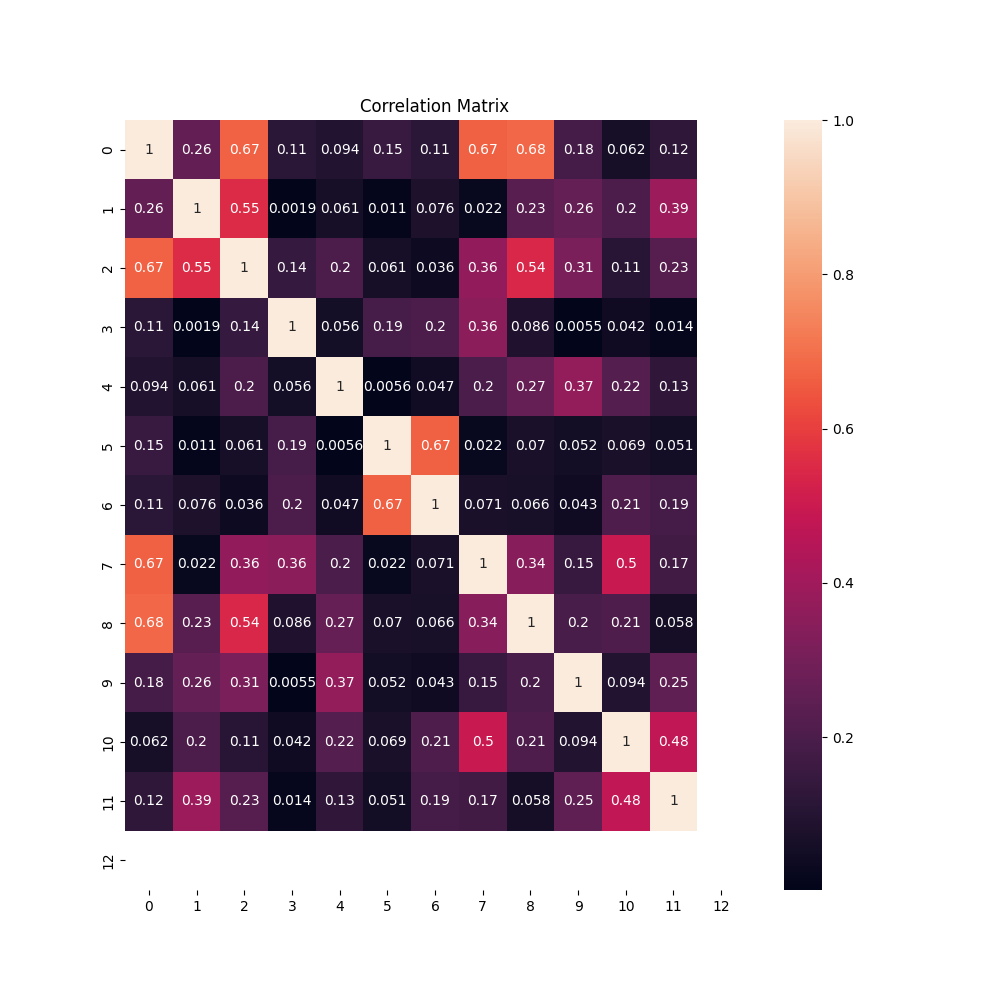
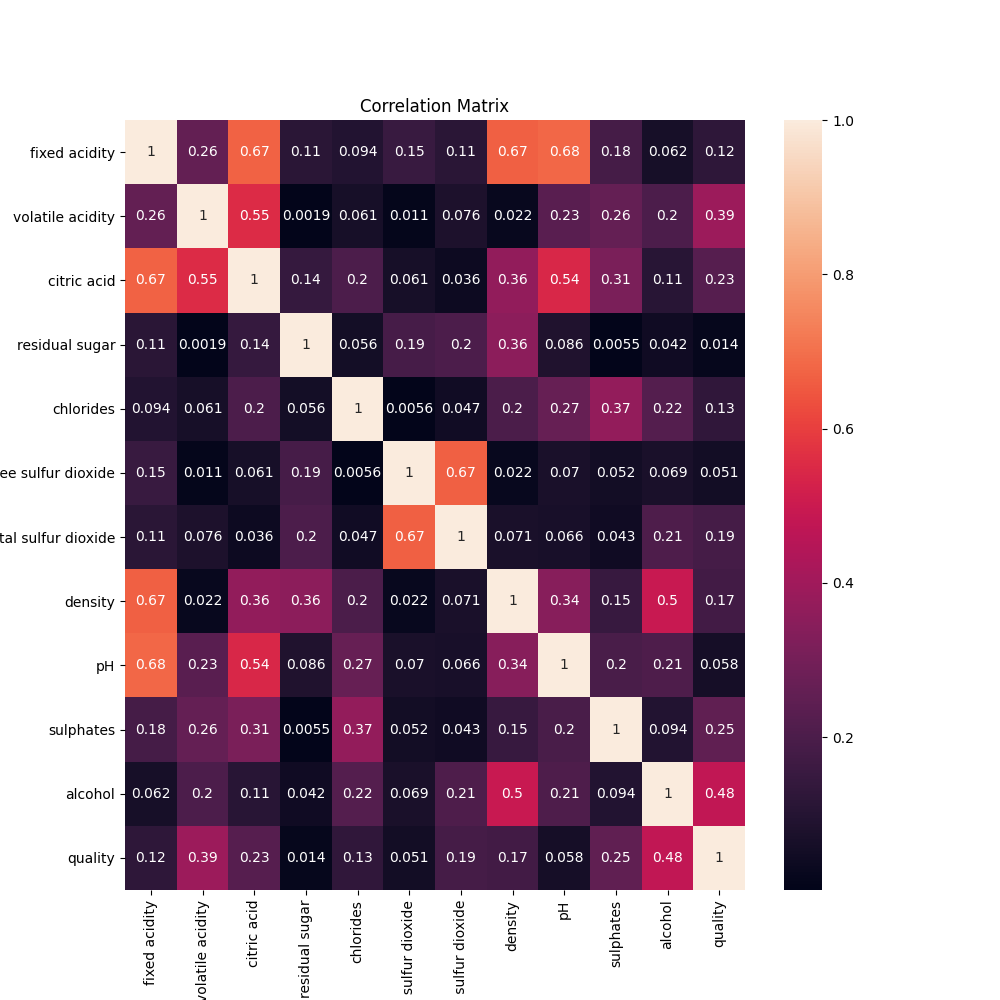
added metrics plt, violin plot

diff --git a/Debugging_04.py b/Debugging_04.py
@@ -1,13 +1,66 @@
 from matplotlib import pyplot as plt
 import sklearn.metrics as metrics
+import seaborn as sns
+import pandas as pd
 
-def debugging(y_pred, Y_validation):
+def debugging(y_pred_mlp, y_pred_knn, Y_validation):
 
     validation_type, validation_quality = Y_validation[:, 1], Y_validation[:, 0]
 
+    data_df = pd.DataFrame({'validation': validation_quality, 'mlp': y_pred_mlp, 'knn': y_pred_knn})
+    plt.figure(figsize=(10, 10))
+    g = sns.catplot(data=data_df, kind='violin')
+    plt.title("Violinplot")
+    g.set_axis_labels("", "quality")
+    plt.savefig("figures/[VIOLINPLOT QUALITY]")
+    plt.close()
 
-    print("Explained Variance:", metrics.r2_score(validation_quality, y_pred))
+    r2_mlp = [metrics.r2_score(validation_quality, y_pred_mlp), 'r2', 'mlp']
+    r2_knn = [metrics.r2_score(validation_quality, y_pred_knn), 'r2', 'knn']
+    mse_mlp = [metrics.mean_squared_error(validation_quality, y_pred_mlp), 'mse', 'mlp']
+    mse_knn = [metrics.mean_squared_error(validation_quality, y_pred_knn), 'mse', 'knn']
+    rmse_mlp = [metrics.mean_squared_error(validation_quality, y_pred_mlp, squared=False), 'rmse', 'mlp']
+    rmse_knn = [metrics.mean_squared_error(validation_quality, y_pred_knn, squared=False), 'rmse', 'knn']
+    mae_mlp = [metrics.mean_absolute_error(validation_quality, y_pred_mlp), 'mae', 'mlp']
+    mae_knn = [metrics.mean_absolute_error(validation_quality, y_pred_knn), 'mae', 'knn']
 
-    plt.close("all")
-    plt.matshow(metrics.confusion_matrix(validation_quality, y_pred))
-    plt.show()
+    mlp_res = [r2_mlp[0], mse_mlp[0], rmse_mlp[0], mae_mlp[0]]
+    knn_res = [r2_knn[0], mse_knn[0], rmse_knn[0], mae_knn[0]]
+    #print("The best performing metric for mlp is: " + str(mlp_res[mlp_res.index(max(mlp_res))][1]) + " with the score " + str(max(mlp_res)))
+    #print("The best performing metric for knn is: " + str(knn_res[knn_res.index(max(knn_res))][1]) + " with the score " + str(max(knn_res)))
+
+    metrics_df = pd.DataFrame([r2_mlp, r2_knn, mse_mlp, mse_knn, rmse_mlp, rmse_knn, mae_mlp, mae_knn], columns=['score', 'type', 'model'])
+
+    plt.figure(figsize=(10, 10))
+    g = sns.catplot(
+        data=metrics_df, kind="bar",
+        x="type", y="score", hue="model",
+        ci="sd", palette="dark", alpha=.6, height=6
+    )
+    g.despine(left=True)
+    g.set_axis_labels("", "score")
+    g.legend.set_title("Models")
+    plt.title("Barplot")
+    plt.savefig("figures/[BARPLOT METRICS]")
+    plt.close()
+
+    #fig, ax = plt.subplots(1, 1)
+    plt.matshow(metrics.confusion_matrix(validation_quality, y_pred_mlp))
+    #ax.set_xticks([i for i in range(int(min(validation_quality)),int(max(validation_quality))+1)])
+    #ax.set_yticks([i for i in range(int(min(validation_quality)),int(max(validation_quality))+1)])
+    plt.title("Correlation Matrix")
+    plt.xlabel('validation')
+    plt.ylabel('mlp prediction')
+    plt.savefig("figures/[CORRELATION MATRIX VALIDATION MLP]")
+    plt.close()
+
+    #fig, ax = plt.subplots(1, 1)
+    plt.matshow(metrics.confusion_matrix(validation_quality, y_pred_knn))
+    #ax.set_xticks([i for i in range(int(min(validation_quality)), int(max(validation_quality))+1)])
+    #ax.set_yticks([i for i in range(int(min(validation_quality)), int(max(validation_quality))+1)])
+    plt.title("Correlation Matrix")
+    plt.xlabel('validation')
+    plt.ylabel('knn prediction')
+    plt.savefig("figures/[CORRELATION MATRIX VALIDATION KNN]")
+    plt.close()
+

diff --git a/Model_02.py b/Model_02.py
@@ -5,7 +5,6 @@ from sklearn.datasets import load_boston
 from sklearn.preprocessing import StandardScaler
 
 import numpy as np
-from matplotlib import pyplot as plt
 from sklearn import model_selection as ms
 from sklearn.linear_model import LogisticRegression
 from sklearn.ensemble import IsolationForest
@@ -157,7 +156,6 @@ def MLPregression(X_train, Y_train, X_test, Y_test ):
     
     criterion = torch.nn.MSELoss()
 
-
     y_pred_round = torch.round(y_pred)
 
     mlpScore1 = torch.mean(torch.abs(y_pred - Y_test)).item()
@@ -186,7 +184,6 @@ def knnRegression(X_train, Y_train, X_test, Y_test):
 
 def basic_models(X_train, Y_train, X_test, Y_test, X_validation, Y_validation):
 
-
     X_train, Y_train, X_test, Y_test, X_validation, Y_validation = removeOutliers(X_train, Y_train, X_test, Y_test, X_validation, Y_validation)
 
     train_type, train_quality = Y_train[:,1], Y_train[:,0]
@@ -203,7 +200,7 @@ def basic_models(X_train, Y_train, X_test, Y_test, X_validation, Y_validation):
     X_test_regression = np.concatenate([X_test, test_type.reshape(test_type.shape[0],1)], axis=1)
 
     y_pred, y_pred_reg_mlp = MLPregression(X_train_regression, train_quality.reshape((train_quality.shape[0], 1)), X_test_regression, test_quality)
-    y_pred, y_pred_reg_knn,_ = knnRegression(X_train_regression, train_quality, X_test_regression, test_quality)
+    y_pred, y_pred_reg_knn, _ = knnRegression(X_train_regression, train_quality, X_test_regression, test_quality)
 
     # standardization
     X_train, X_test, X_validation = scaler(X_train, X_test, X_validation)
@@ -212,7 +209,7 @@ def basic_models(X_train, Y_train, X_test, Y_test, X_validation, Y_validation):
     X_train_regression = np.concatenate([X_train, train_type.reshape(train_type.shape[0],1)], axis=1)
     X_test_regression = np.concatenate([X_test, test_type.reshape(test_type.shape[0],1)], axis=1)
     y_pred, _ = MLPregression(X_train_regression, train_quality.reshape((train_quality.shape[0], 1)), X_test_regression, test_quality)
-    y_pred, _ , _ = knnRegression(X_train_regression, train_quality, X_test_regression, test_quality)
+    y_pred, _, _ = knnRegression(X_train_regression, train_quality, X_test_regression, test_quality)
 
     # normalization
     X_train, X_test, X_validation = normalize(X_train, X_test, X_validation)
@@ -225,6 +222,4 @@ def basic_models(X_train, Y_train, X_test, Y_test, X_validation, Y_validation):
     MLPregression(X_train_regression, train_quality.reshape((train_quality.shape[0], 1)), X_test_regression, test_quality)
     knnRegression(X_train_regression, train_quality, X_test_regression, test_quality)
 
-    
     return y_pred_class_logreg, y_pred_class_svm, y_pred_reg_mlp, y_pred_reg_knn
-

diff --git a/DataPrep_01.py b/DataPrep_01.py
@@ -2,22 +2,8 @@ import pandas as pd
 import numpy as np
 from matplotlib import pyplot as plt
 from sklearn import model_selection as ms
-from sklearn.linear_model import LogisticRegression
-from sklearn.ensemble import IsolationForest
-from sklearn.svm import SVC
-from sklearn.preprocessing import MinMaxScaler
-from sklearn.preprocessing import StandardScaler
-from sklearn.neighbors import KNeighborsRegressor
-from sklearn.neighbors import KNeighborsClassifier
-from sklearn.model_selection import GridSearchCV
-from sklearn.tree import DecisionTreeRegressor
 import random as rnd
 import seaborn as sns
-
-import sklearn.metrics as metrics
-import sklearn.utils
-
-from sklearn.neural_network import MLPRegressor
 
 # Open CSV files for red and white whine, then merge them
 def read_CSV():
@@ -95,26 +81,22 @@ def read_CSV():
     
         '''
     # Correlation Matrix
-    corr_matrix_red = np.corrcoef(wine_data_red.T)
-    corr_matrix_white = np.corrcoef(wine_data_white.T)
+    corr_matrix_red = np.corrcoef(wine_data_red.drop(['type'], axis=1).T)
+    corr_matrix_white = np.corrcoef(wine_data_white.drop(['type'], axis=1).T)
 
-    fig = plt.figure(figsize=(10,10))
-    sns.heatmap(np.abs(corr_matrix_red), annot=True)
+    plt.figure(figsize=(10,10))
+    sns.heatmap(np.abs(corr_matrix_red), annot=True, xticklabels=columns.drop(['type']), yticklabels=columns.drop(['type']))
     plt.title("Correlation Matrix")
     plt.savefig("figures/[CORRELATION MATRIX RED]")
-    plt.close
+    plt.close()
 
-    plt.figure()
-    fig = plt.figure(figsize=(10,10))
-    sns.heatmap(np.abs(corr_matrix_white), annot=True)
+    plt.figure(figsize=(10,10))
+    sns.heatmap(np.abs(corr_matrix_white), annot=True, xticklabels=columns.drop(['type']), yticklabels=columns.drop(['type']))
     plt.title("Correlation Matrix")
     plt.savefig("figures/[CORRELATION MATRIX WHITE]")
-    plt.close
-
-
+    plt.close()
 
     # Split up to 80% Train, 10% Test, 10% Validation data
-    wine_data_merged_matrix = list(wine_data_merged)
     wine_data_merged = np.array(wine_data_merged, dtype=float)
 
     X = wine_data_merged.T[:-2].T
@@ -124,7 +106,6 @@ def read_CSV():
 
     X_train, X_test, Y_train, Y_test = ms.train_test_split(X, Y, test_size=0.2, random_state=randomState)
     X_test, X_validation, Y_test, Y_validation = ms.train_test_split(X_test, Y_test, test_size=0.5, random_state=randomState)
-
 
     Y_train_quality = Y_train[:,0]
     Y_train_type = Y_train[:,1]

diff --git a/main.py b/main.py
@@ -4,58 +4,36 @@ import Tuning_03 as tuning
 import Debugging_04 as debug
 import Parallel_05 as parallel
 
-import numpy as np
 import time
-from matplotlib import pyplot as plt
 import argparse
 
 
-if __name__ ==  '__main__':
+if __name__ == '__main__':
 
     parser = argparse.ArgumentParser(description='Parallelization.')
-
     parser.add_argument('--parallel', action='store_true')
     args = parser.parse_args()
 
-    if args.parallel:
-        parallelization = True
-    else:
-        parallelization = False
-
-    print(parallelization)
-
-
-    
 
     # DATAPREP
     X_train, Y_train, X_test, Y_test, X_validation, Y_validation = dataPrep.read_CSV()
 
     # MODEL
-    #y_pred_class_logreg, y_pred_class_svm, y_pred_reg_mlp, y_pred_reg_knn = model.basic_models(X_train, Y_train, X_test, Y_test, X_validation, Y_validation)
+    y_pred_class_logreg, y_pred_class_svm, y_pred_reg_mlp, y_pred_reg_knn = model.basic_models(X_train, Y_train, X_test, Y_test, X_validation, Y_validation)
 
     # TUNING
-    if(not parallelization):
+    if(not args.parallel):
         t = time.time()
         knnResult, mlpResult, knnModel, mlpModel = tuning.perform_tuning(X_train, Y_train, X_validation, Y_validation)
         elapsed = time.time() - t
         print("Elapsed Time:", elapsed)
 
-
     # PARALELLIZATION
-    if(parallelization):
+    if(args.parallel):
         t = time.time()
         knnResult, mlpResult, knnModel, mlpModel = parallel.perform_tuning(X_train, Y_train, X_validation, Y_validation, 2)
         elapsed = time.time() - t
         print("Elapsed Time:", elapsed)
 
     # DEBUGGING
-
-    debug.debugging(mlpResult, Y_validation)
-
-
-
-
-
-
-
-
+    debug.debugging(mlpResult, knnResult, Y_validation)

diff --git a/Tuning_03.py b/Tuning_03.py
@@ -69,16 +69,15 @@ def add_features(X_train, Y_train, X_validation, Y_validation, numberOfFeatures)
             new_X_train[:,index] = X_train_regression[:,index]
             new_X_valid[:,index] = X_valid_regression[:,index]
 
-
         for i in range(X_train_regression.shape[1]):
             X_train_regression_feature = np.array(X_train_regression[:,i])
             X_valid_regression_feature = np.array(X_valid_regression[:,i])
 
             tmp_X_train = np.concatenate([new_X_train, X_train_regression_feature.reshape(X_train_regression.shape[0],1)], axis=1)
             tmp_X_valid = np.concatenate([new_X_valid, X_valid_regression_feature.reshape(X_valid_regression.shape[0],1)], axis=1)
-            _,_,nonlinscore = knnRegression(tmp_X_train, train_quality, tmp_X_valid, validation_quality)
+            _, _, nonlinscore = knnRegression(tmp_X_train, train_quality, tmp_X_valid, validation_quality)
 
-            
+
             if nonlinscore < current_best and i not in best_indices:
                print("NEW SCORE:", nonlinscore)
                current_best = nonlinscore
@@ -187,4 +186,3 @@ def perform_tuning(X_train, Y_train, X_validation, Y_validation, parallel=False)
 
     #return kNNresult, MLPresult, gs_knn, gs_mlp
     return kNNresult, MLPresult, gs_knn, mlpRegressor
-
